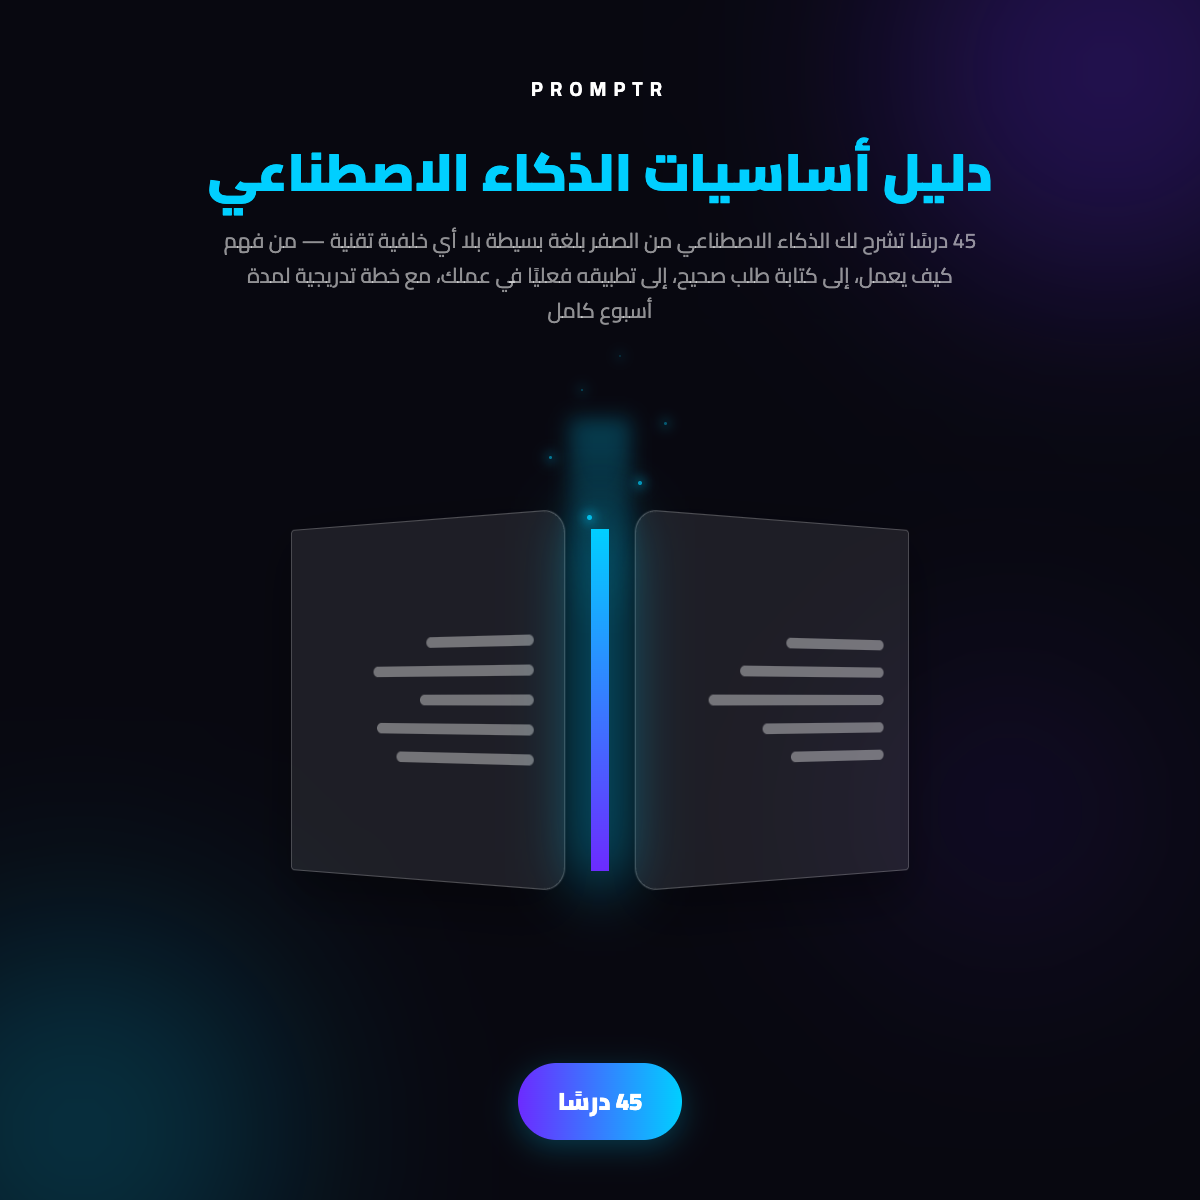
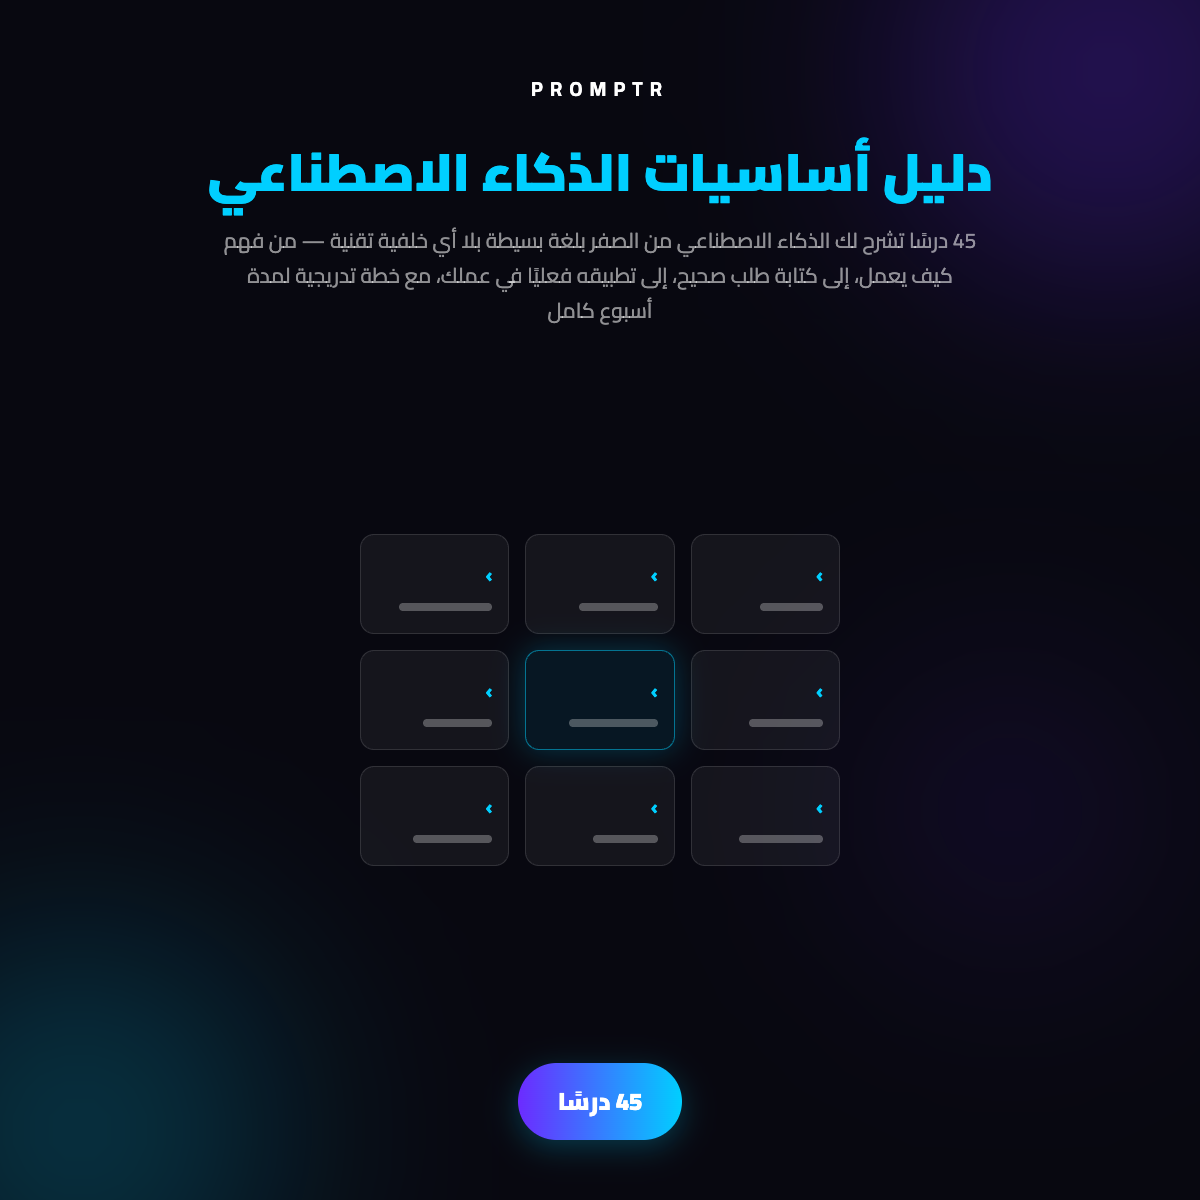
fix: switch ai-basics-arabic cover to grid visual, was duplicating ai-income-book's book visual
Also documents a warning above the storefront deploy command: railway up
must always be run with explicit --project/--service/--environment IDs,
since this directory's Railway CLI link points at the old crashed
promptr project (881899a5), not the live storefront service.

diff --git a/products/_template/gen-cover-image.js b/products/_template/gen-cover-image.js
@@ -38,7 +38,7 @@ const CONFIGS = {
   'ecommerce-prompts-arabic': { visual: 'cart', unit: 'برومبتًا' },
   'ai-video-guide-arabic': { visual: 'video', unit: 'نموذجًا' },
   'customer-service-prompts': { visual: 'chat', unit: 'ردًا' },
-  'ai-basics-arabic': { visual: 'book', unit: 'درسًا' },
+  'ai-basics-arabic': { visual: 'grid', unit: 'درسًا' },
 }
 
 // ─── bidi + escaping — ported verbatim from generate.js ────────────────────

diff --git a/CLAUDE.md b/CLAUDE.md
@@ -87,6 +87,8 @@ Both services live in project **`zoological-hope`** (`b635b9d9-0241-4f5f-bbbd-1b
 | `@dtc/backend` | `cfae7146-9e7b-4f07-8d9f-2f75bdcb7cd1` | `https://dtcbackend-production-32a2.up.railway.app` (also `api.promptrsa.com`) | **Auto** — triggers on every `git push origin main` |
 | `storefront` | `f7497b9a-c86b-4c81-ae08-bac368caa0ae` | `https://promptrsa.com` | **Manual** — must run `railway up` from repo root |
 
+> ⚠️ **لا تستخدم `railway up` المجرد** — الربط في هذا المجلد يشير للمشروع القديم المعطّل (`881899a5`). استخدم دائمًا الأمر بالمعرّفات الصريحة الموثّق أدناه.
+
 **Storefront deploy command (always from repo root):**
 ```bash
 railway up --project b635b9d9-0241-4f5f-bbbd-1b6d2468d2c4 \